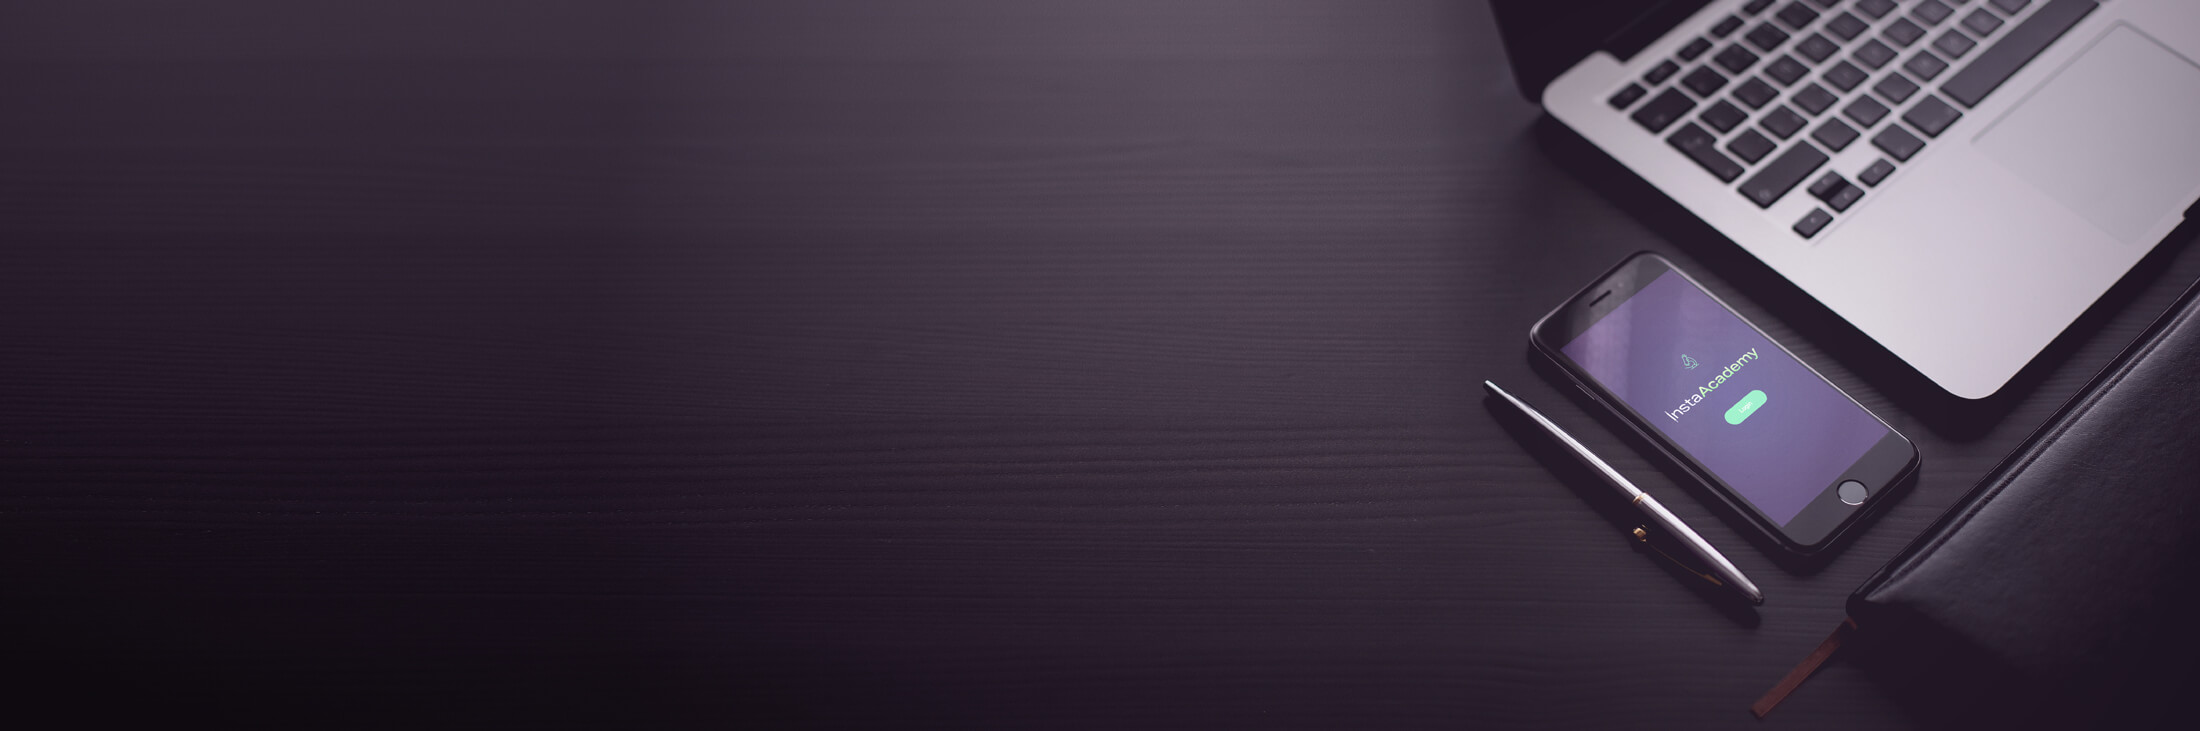
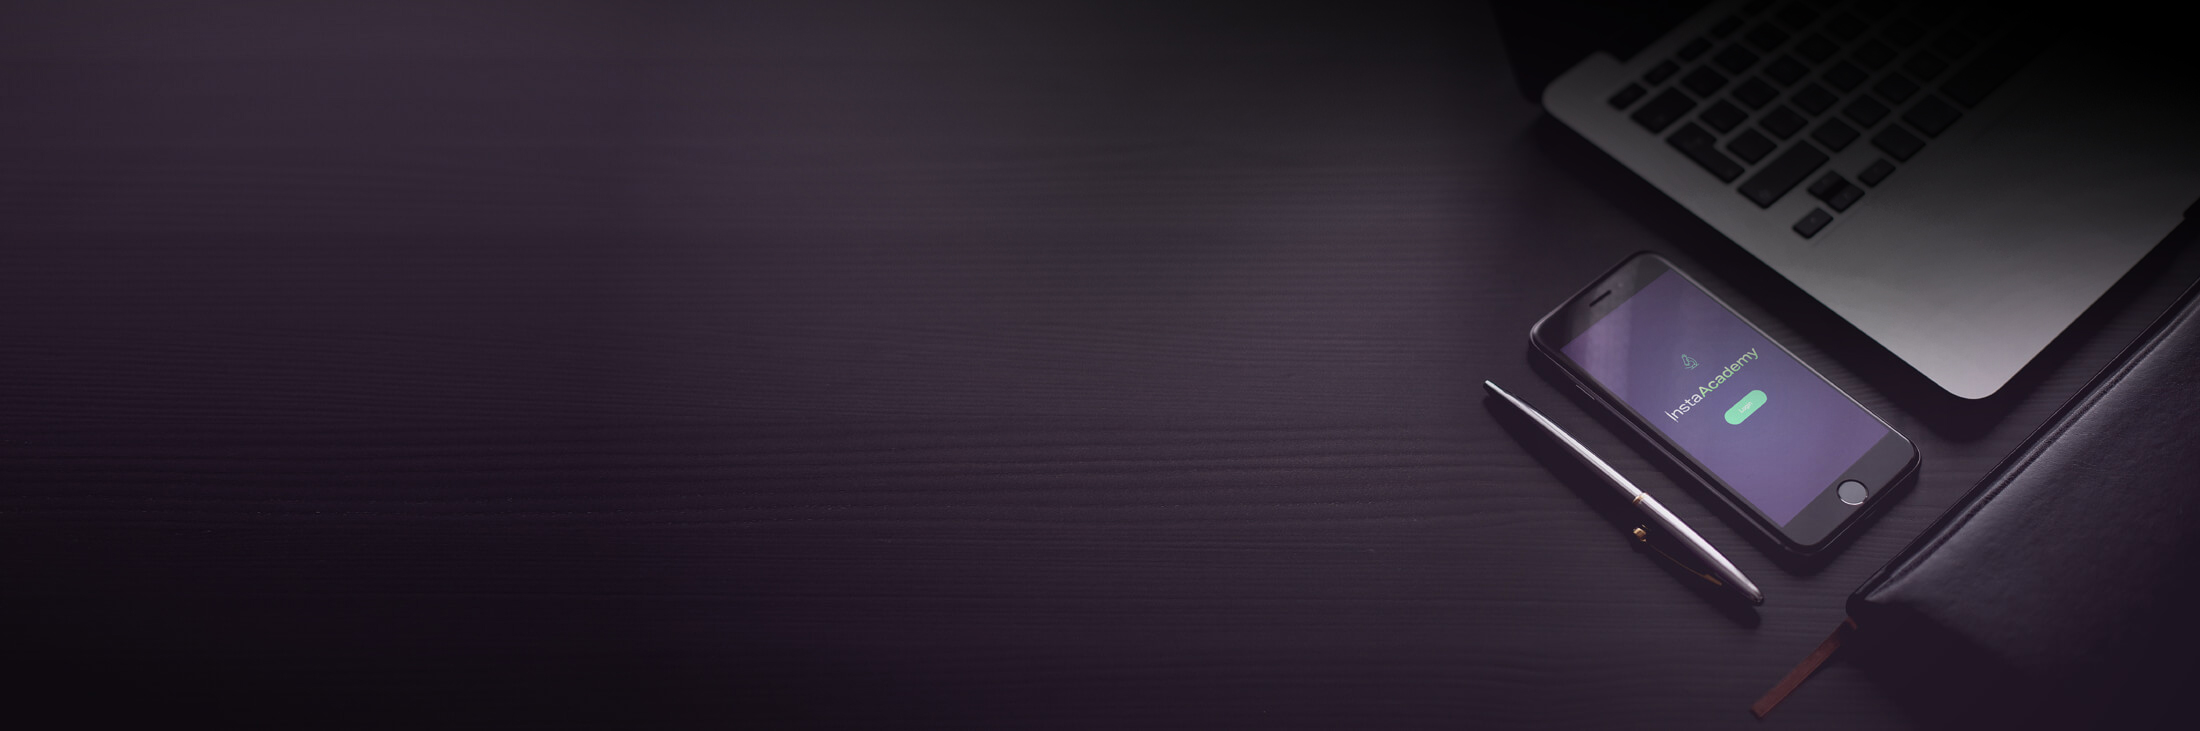
menu imagen de blockchain,

Changed region(s): [[0.34, 0.0, 1.0, 0.5718]]

diff --git a/index.html b/index.html
@@ -73,7 +73,7 @@
 				<div id="top-bar__navigation-wrap">
 					<div>
 						<nav id="top-bar__navigation" class="navigation" role="navigation">
-							<ul class="text-shadow">
+							<ul>
 								<li class="active">
 									<a href="#start-screen"><span>Home</span></a>									
 								</li>
@@ -627,7 +627,7 @@
 								]}'>
 
 								<!-- start item BLOCKCHAIN C1-->
-								<div class="__item __item_cuadro  __item--first cuadro_1">
+								<div class="__item __item_cuadro  __item--first cuadro_1" >
 									<div class="__content">
 										<i class="__ico">
 											<img class="img-responsive" src="img/ico/BLOCKCHAIN_icon.png" width="50" height="60" alt="demo" />

diff --git a/css/main.css b/css/main.css
@@ -7061,9 +7061,6 @@ html {
 a {
   color: #26de81; }
 
-.text-shadow {
-  text-shadow: 0 0 3px black; }
-
 .align-item-center {
   display: flex;
   align-items: center; }
@@ -7128,7 +7125,7 @@ a {
   background-repeat: no-repeat; }
 
 .cuadro_1 {
-  background-image: url("../img/cuadro_blockchain.jpg"); }
+  background-image: url("../img/bg_azul.jpg"); }
 
 .cuadro_2 {
   background-image: url("../img/background_bitcoin.jpg"); }

diff --git a/style/reset/_reset.scss b/style/reset/_reset.scss
@@ -18,9 +18,7 @@ html {
 a{
 	color:$secondary-color;
 }
-.text-shadow{
-	text-shadow: 0 0 3px black;
-}
+
 .align-item-center{
 	display: flex;
 	align-items: center;
@@ -111,7 +109,7 @@ a{
 	background-repeat: no-repeat;
 }
 .cuadro_1{
-	background-image:url("../img/cuadro_blockchain.jpg");	
+	background-image:url('../img/bg_azul.jpg');
 }
 .cuadro_2{
 	background-image:url("../img/background_bitcoin.jpg");

diff --git a/style/layout/_header.scss b/style/layout/_header.scss
@@ -533,7 +533,7 @@
 					background-color: #292b30;
 				}
 
-				a { color: $white-color !important; }
+				a { color: $white-color !important;}
 			}
 		}
 
@@ -559,6 +559,7 @@
 		{
 			padding-top: 30px;
 			padding-bottom: 30px;
+			
 		}
 	}
 }
